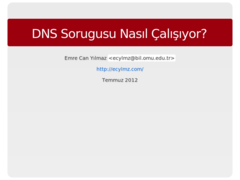
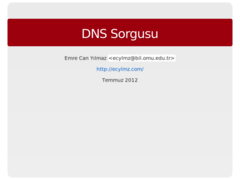
başlığı düzelt

Changed region(s): [[0.1167, 0.1389, 0.875, 0.2222]]

diff --git a/p/dns-sorgusu-nasil/index.html b/p/dns-sorgusu-nasil/index.html
@@ -27,7 +27,7 @@
     <meta http-equiv="X-UA-Compatible" content="chrome=1" />
     <meta name="apple-mobile-web-app-capable" content="yes" />
     <meta id="viewport" name="viewport" content="user-scalable=no" />
-    <title>DNS Sorugusu Nasıl Çalışıyor?</title>
+    <title>DNS Sorgusu</title>
     <!-- Styles -->
     
     <style type="text/css" media="print">
@@ -1609,7 +1609,7 @@ _gaq.push(['_trackPageview']);
         <div class="slide first">
           <div class="inner">
             
-            <header><h1>DNS Sorugusu Nasıl Çalışıyor?</h1></header>
+            <header><h1>DNS Sorgusu</h1></header>
             
             
             <section><p>Emre Can Yılmaz <code>&lt;ecylmz@bil.omu.edu.tr&gt;</code></p>
@@ -2066,7 +2066,7 @@ kullanılan isimleri barındırır. Yani büyük bir veritabanıdır diyebiliriz
       <caption>Table of Contents</caption>
       
       <tr id="toc-row-1">
-        <th><a href="#slide1">DNS Sorugusu Nasıl Çalışıyor?</a></th>
+        <th><a href="#slide1">DNS Sorgusu</a></th>
         <td><a href="#slide1">1</a></td>
       </tr>
       

diff --git a/p/dns-sorgusu-nasil/index.md b/p/dns-sorgusu-nasil/index.md
@@ -1,4 +1,4 @@
-# DNS Sorugusu Nasıl Çalışıyor?
+# DNS Sorgusu
 
 .fx: first
 
